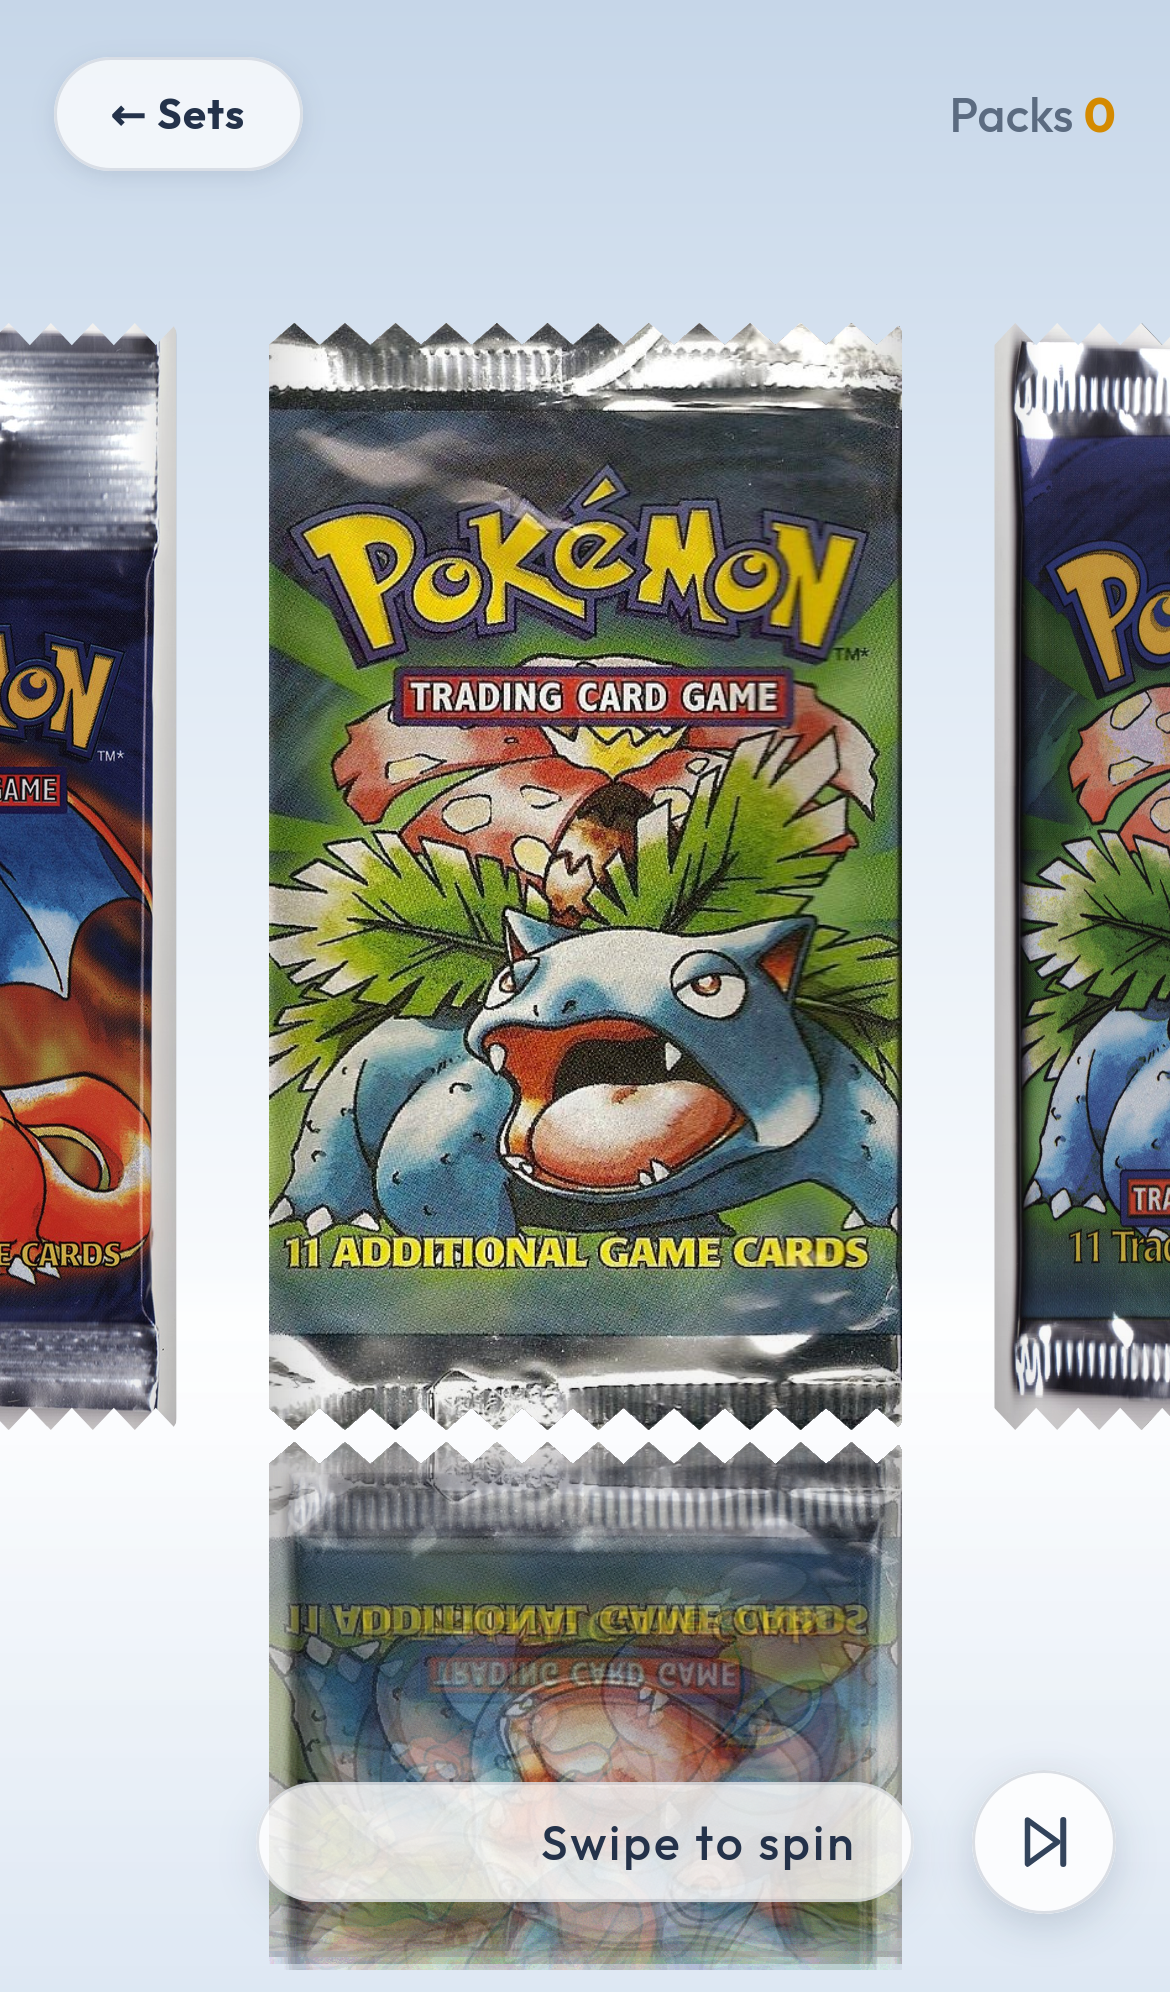
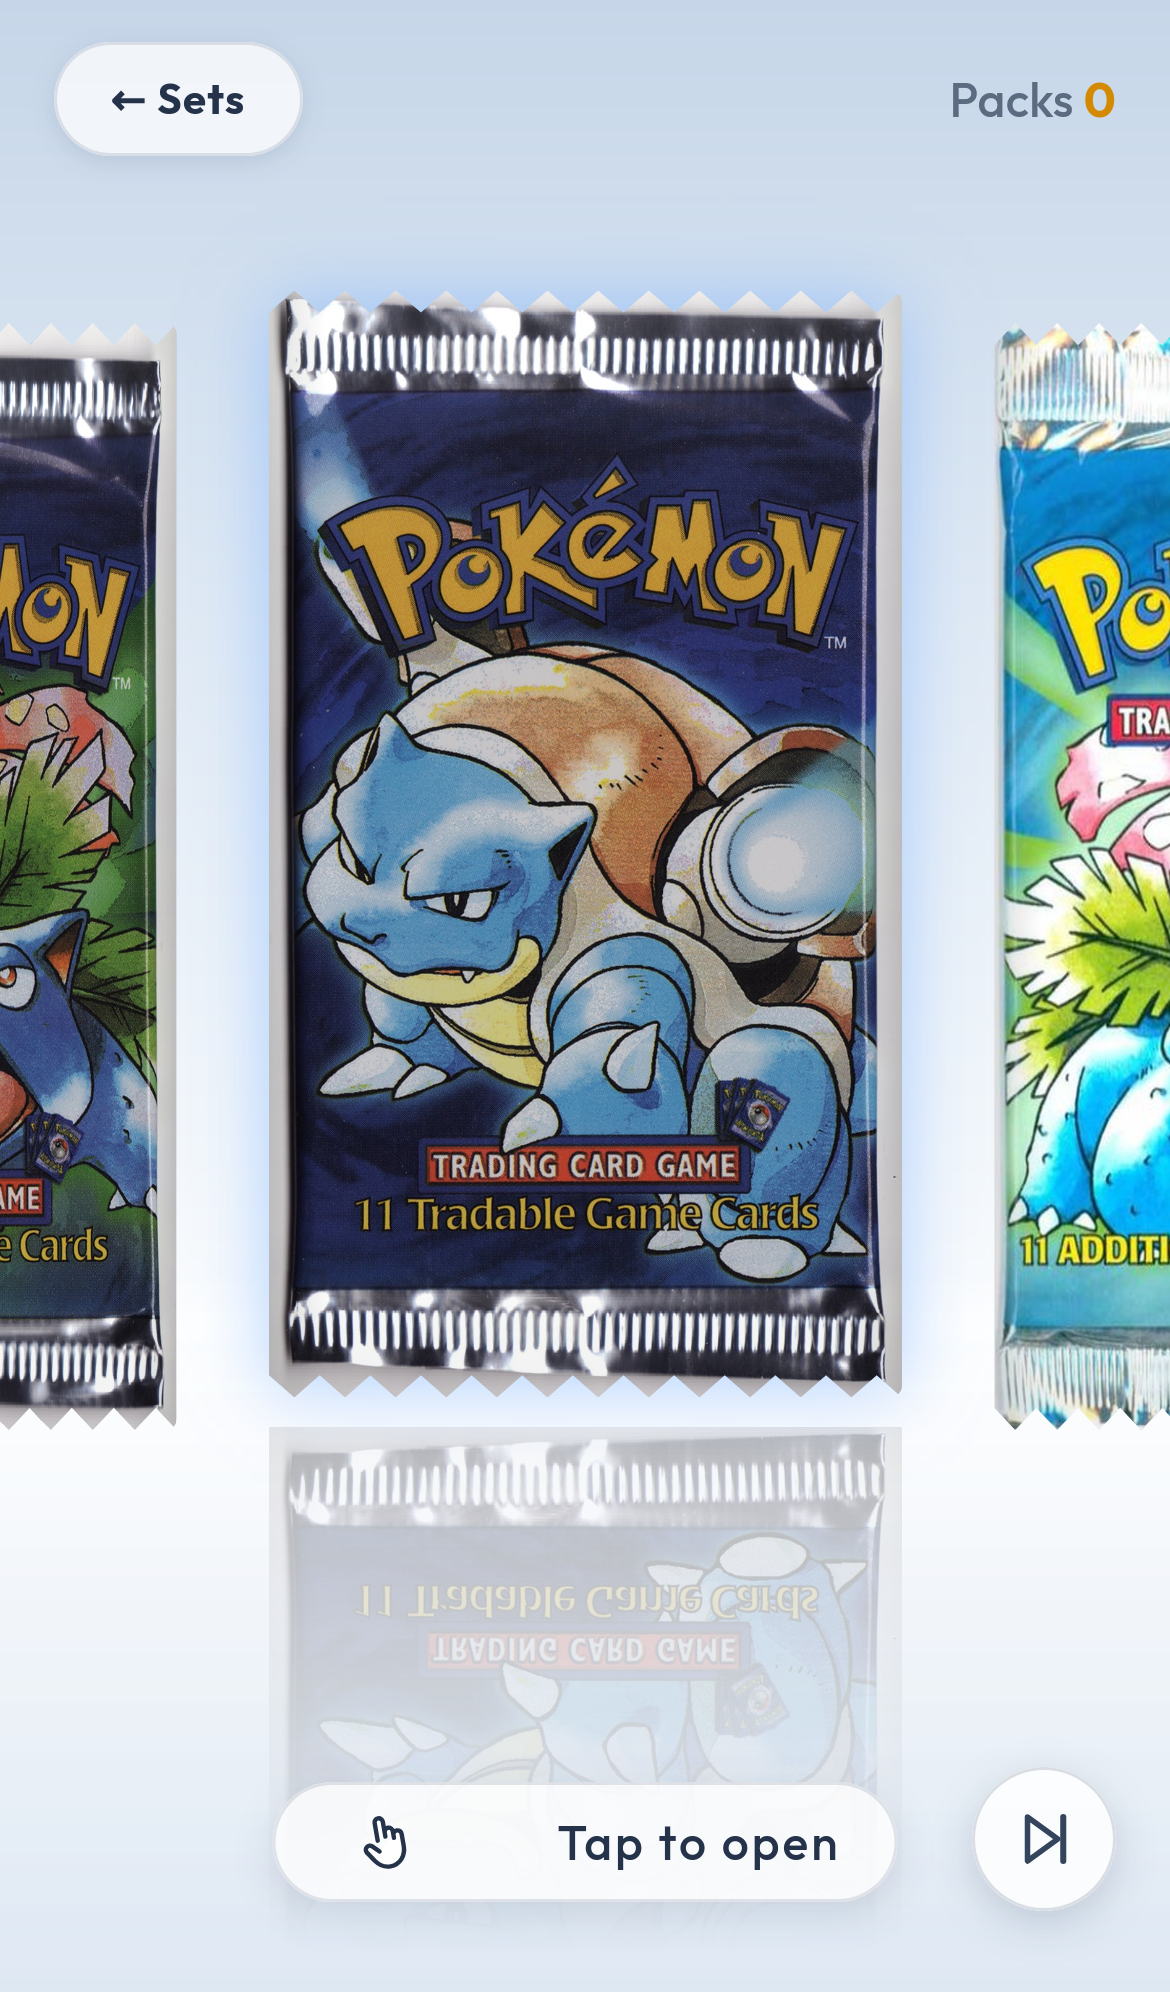
Fix ghost pack (untransformed off-window packs stacked at centre); tap-to-open landed pack, tap neighbour to snap

diff --git a/index.html b/index.html
@@ -328,6 +328,9 @@ h2{font-size:13px;letter-spacing:3px}
 #vPack.on:after{content:"";position:fixed;inset:0;z-index:80;pointer-events:none;background:linear-gradient(180deg,#dfe9f4,#ffffff);animation:lightfade .7s ease forwards}
 @keyframes lightfade{to{opacity:0;visibility:hidden}}
 .hint .hand{margin-right:14px;line-height:0}
+#vWheel.stage .pack.landed{filter:drop-shadow(0 0 12px rgba(110,170,255,.55))}
+#vWheel.stage .pack.landed .pk{animation:bob 1.8s ease-in-out infinite}@keyframes bob{50%{transform:translateY(-7px)}}
+#vWheel.stage .pack{cursor:pointer}
 </style></head><body><div id="bg"></div><canvas id="fx"></canvas><div id="burst"></div>
 <div id="tear"></div><div id="badge">CSS · loading</div>
 <header><h1>PACK SIMULATOR</h1>
@@ -339,7 +342,7 @@ h2{font-size:13px;letter-spacing:3px}
 <div id="vBinder" class="view"><div id="bbar"><button id="bshelf" class="ghost">← Shelf</button><h3 id="btitle"></h3><div class="bfilt"><button data-f="all" class="ghost on">All</button><button data-f="owned" class="ghost">Owned</button><button data-f="missing" class="ghost">Missing</button></div></div>
 <div id="bwrap"><button id="bprev" class="bnav ghost">‹</button><div id="book"></div><button id="bnext" class="bnav ghost">›</button></div><div id="bpage"></div></div>
 <div id="viewer"><div id="vcard"></div><div id="vinfo"></div></div>
-<div id="vWheel" class="view"><div id="stageui"><button id="sback" class="ghost">← Sets</button><div id="sstatus"></div><div class="sstats">Packs <b id="scount">0</b></div></div><div id="wheelwrap"><div id="pointer"></div><div id="strip"></div><button id="skip" aria-label="Spin"><svg viewBox="0 0 24 24"><path d="M6 4l11 8-11 8z" fill="none" stroke="currentColor" stroke-width="2" stroke-linejoin="round"/><path d="M19 4v16" stroke="currentColor" stroke-width="2.2" stroke-linecap="round"/></svg></button><div class="hint" id="whint"><span class="hand"><svg viewBox="0 0 24 24" width="22" height="22" aria-hidden="true"><path d="M9 11V4.5a1.5 1.5 0 0 1 3 0V10m0-1.5a1.5 1.5 0 0 1 3 0V11m0-1a1.5 1.5 0 0 1 3 0v4.5c0 3.6-2.4 6.5-6 6.5-2.6 0-4-1.2-5.3-3L4.4 14.6a1.5 1.5 0 0 1 2.3-1.9L9 15" fill="#fff" stroke="currentColor" stroke-width="1.6" stroke-linecap="round" stroke-linejoin="round"/></svg></span>Swipe to spin</div></div>
+<div id="vWheel" class="view"><div id="stageui"><button id="sback" class="ghost">← Sets</button><div id="sstatus"></div><div class="sstats">Packs <b id="scount">0</b></div></div><div id="wheelwrap"><div id="pointer"></div><div id="strip"></div><button id="skip" aria-label="Spin"><svg viewBox="0 0 24 24"><path d="M6 4l11 8-11 8z" fill="none" stroke="currentColor" stroke-width="2" stroke-linejoin="round"/><path d="M19 4v16" stroke="currentColor" stroke-width="2.2" stroke-linecap="round"/></svg></button><div class="hint" id="whint"><span class="hand"><svg viewBox="0 0 24 24" width="22" height="22" aria-hidden="true"><path d="M9 11V4.5a1.5 1.5 0 0 1 3 0V10m0-1.5a1.5 1.5 0 0 1 3 0V11m0-1a1.5 1.5 0 0 1 3 0v4.5c0 3.6-2.4 6.5-6 6.5-2.6 0-4-1.2-5.3-3L4.4 14.6a1.5 1.5 0 0 1 2.3-1.9L9 15" fill="#fff" stroke="currentColor" stroke-width="1.6" stroke-linecap="round" stroke-linejoin="round"/></svg></span><span id="whtxt">Swipe to spin</span></div></div>
 </div>
 <div id="vPack" class="view"><div id="board"></div></div>
 <section><h2>Recent pulls</h2><div id="hist"></div></section>
@@ -484,30 +487,37 @@ function draw(){wrap();const ww_=$("wheelwrap"),st=$("strip"),w=ww_.clientWidth|
   if(ad>4.5){el.style.visibility="hidden";continue}el.style.visibility="";
   const n=Math.min(ad,1),f=Math.max(0,ad-1),tx=sg*(n*pw*1.06+f*pw*.2),tz=-(n*pw*.35+f*pw*1.5),ry=-sg*n*34;
   el.style.zIndex=String(100-Math.round(ad*10));el.style.opacity=ad>1?String(Math.max(0,(ad<2?1-(ad-1)*.45:.55*(1-(ad-2)/2.2))).toFixed(3)):"";
-  el.style.transform=ad<.001?(landedNow?"translateY(-10px) scale(1.03)":"none"):`translate3d(${tx.toFixed(1)}px,0,${tz.toFixed(1)}px) rotateY(${ry.toFixed(2)}deg)`}
- for(const k of[c0-7,c0+7])if(ch[k])ch[k].style.visibility="hidden";
+  el.style.transform=ad<.001?(landedNow?"translateY(-8px)":"none"):`translate3d(${tx.toFixed(1)}px,0,${tz.toFixed(1)}px) rotateY(${ry.toFixed(2)}deg)`}
+ for(let k=0;k<ch.length;k++)if(k<c0-6||k>c0+6){if(ch[k].style.visibility!=="hidden")ch[k].style.visibility="hidden"}
  const idx=Math.round(pos/PW);if(idx!==lastTick){const p=$("strip").children;p[lastTick]?.classList.remove("tick");p[idx]?.classList.add("tick");lastTick=idx}}
 /* swipe physics */
-$("skip").onclick=e=>{e.stopPropagation();if(state!=="idle")return;cancelAnimationFrame(raf);document.querySelectorAll(".pack.landed").forEach(p=>p.classList.remove("landed"));travel=0;speed=55+Math.random()*30;state="fling";$("whint").classList.add("off");fling()};
+$("skip").onclick=e=>{e.stopPropagation();if(state!=="idle"&&state!=="landed")return;setHint("Swipe to spin");cancelAnimationFrame(raf);document.querySelectorAll(".pack.landed").forEach(p=>p.classList.remove("landed"));travel=0;speed=55+Math.random()*30;state="fling";$("whint").classList.add("off");fling()};
 $("skip").addEventListener("pointerdown",e=>e.stopPropagation());
 let drag=null,travel=0;const ww=$("wheelwrap");
-ww.addEventListener("pointerdown",e=>{if(state!=="idle"&&state!=="fling")return;cancelAnimationFrame(raf);ww.setPointerCapture(e.pointerId);ww.classList.add("drag");
+ww.addEventListener("pointerdown",e=>{if(state!=="idle"&&state!=="fling"&&state!=="landed")return;if(state==="landed")state="idle";setHint("Swipe to spin");cancelAnimationFrame(raf);ww.setPointerCapture(e.pointerId);ww.classList.add("drag");
  document.querySelectorAll(".pack.landed").forEach(p=>p.classList.remove("landed"));
- if(state==="idle")travel=0;state="drag";speed=0;drag={x:e.clientX,samples:[{x:e.clientX,t:e.timeStamp||performance.now()}]};drag.prev=drag.samples[0];$("whint").classList.add("off");e.preventDefault()});
-ww.addEventListener("pointermove",e=>{if(state!=="drag")return;const dx=e.clientX-drag.x;drag.x=e.clientX;pos-=dx;travel+=Math.abs(dx);
+ if(state==="idle")travel=0;state="drag";speed=0;drag={x0:e.clientX,y0:e.clientY,t0:performance.now(),moved:0,x:e.clientX,samples:[{x:e.clientX,t:e.timeStamp||performance.now()}]};drag.prev=drag.samples[0];$("whint").classList.add("off");e.preventDefault()});
+ww.addEventListener("pointermove",e=>{if(state!=="drag")return;const dx=e.clientX-drag.x;drag.x=e.clientX;drag.moved=Math.max(drag.moved,Math.hypot(e.clientX-drag.x0,e.clientY-drag.y0));if(drag.moved<8)return;pos-=dx;travel+=Math.abs(dx);
  const t=e.timeStamp||performance.now();drag.samples.push({x:e.clientX,t});drag.samples=drag.samples.filter(s=>t-s.t<120).slice(-8);if(drag.samples.length<2)drag.samples.unshift(drag.prev);drag.prev={x:e.clientX,t};draw()});
-function release(e){if(state!=="drag")return;ww.classList.remove("drag");const sm=drag.samples,t=e.timeStamp||performance.now();const l=sm[sm.length-1],f=t-l.t>150?l:sm[0];
+function release(e){if(state!=="drag")return;ww.classList.remove("drag");if(drag.moved<8&&e.type==="pointerup"){state="idle";return tapAt(e.clientX,e.clientY)}const sm=drag.samples,t=e.timeStamp||performance.now();const l=sm[sm.length-1],f=t-l.t>150?l:sm[0];
  const vx=(l.t-f.t)>0?(l.x-f.x)/(l.t-f.t):0; // px/ms
  speed=Math.max(-90,Math.min(90,-vx*16.7));state="fling";fling()}
 ww.addEventListener("pointerup",release);ww.addEventListener("pointercancel",release);
 function fling(){let lt=performance.now();const loop=now=>{if(state!=="fling")return;const k=Math.min((now-lt)/16.7,4);lt=now;pos+=speed*k;travel+=Math.abs(speed*k);speed*=Math.pow(Math.abs(speed)>20?0.985:0.965,k);draw();
   if(Math.abs(speed)<1.6)return snap();raf=requestAnimationFrame(loop)};raf=requestAnimationFrame(loop)}
+function setHint(t){const h=$("whtxt");if(h)h.textContent=t}
+function tapAt(x,y){const el=document.elementFromPoint(x,y),pk=el&&el.closest&&el.closest("#strip .pack");const ch=[...$("strip").children],c=Math.round(pos/PW);
+ if(!pk){landHere(false);return}const i=ch.indexOf(pk);if(i<0)return;
+ if(i===c){state="opening";$("whint").classList.add("off");pk.classList.remove("landed");tearPack(packArts[i%4],i);return}
+ snapTo(i)}
+function snapTo(i){cancelAnimationFrame(raf);state="snap";const from0=pos,dist=i*PW-from0,t0=performance.now(),dur=320+Math.min(Math.abs(dist),PW*4)*.8;
+ const step=now=>{const t=Math.min((now-t0)/dur,1),e=1-Math.pow(1-t,3);pos=from0+dist*e;draw();if(t<1){raf=requestAnimationFrame(step);return}landHere(true)};raf=requestAnimationFrame(step)}
+function landHere(msg){state="landed";const i=Math.round(pos/PW);pos=i*PW;document.querySelectorAll(".pack.landed").forEach(p=>p.classList.remove("landed"));const el=$("strip").children[i];el&&el.classList.add("landed");draw();
+ setHint("Tap to open");$("whint").classList.remove("off");if(msg)$("status").textContent="Tap the pack to open it — or swipe again!"}
 function snap(){state="snap";const from0=pos,target=Math.round(pos/PW+Math.sign(speed)*0.35)*PW,dist=target-from0,t0=performance.now(),dur=350+Math.abs(dist)*3;
  const step=now=>{const t=Math.min((now-t0)/dur,1),e=1-Math.pow(1-t,3);pos=from0+dist*e;speed=0;draw();
   if(t<1){raf=requestAnimationFrame(step);return}
-  if(travel<PW*3){state="idle";$("whint").classList.remove("off");$("status").textContent="Give it a real swipe to spin!";return}
-  state="landed";const i=Math.round(pos/PW),el=$("strip").children[i];el.classList.add("landed");draw();
-  $("status").textContent="You got a pack!";setTimeout(()=>tearPack(packArts[i%4],i),1100)};raf=requestAnimationFrame(step)}
+  landHere(true)};raf=requestAnimationFrame(step)}
 /* ---------- reveal ---------- */
 function cardEl(c,i){const el=document.createElement("div");el.className="card"+(c.rev?" rev":"")+(TIERS[c.tier]>=3?" hit":"")+(TIERS[c.tier]>=4?" big":"");
  el.innerHTML=`<div class="inner"><div class="slice" style="transform:translateZ(-.8px)"></div><div class="slice" style="transform:translateZ(0)"></div><div class="slice" style="transform:translateZ(.8px)"></div><div class="face back"><img class="cbimg" src="assets/card-back.jpg" alt="" draggable="false" onerror="this.remove()"></div><div class="face front">${img(c.imgs,c.name,c.rarity)}<div class="foil"></div><div class="sparkle"></div><div class="glare"></div></div></div><div class="tag">${esc(c.name)} · ${esc(c.rarity)}${c.rev?" (Reverse)":""}</div>`;return el}
